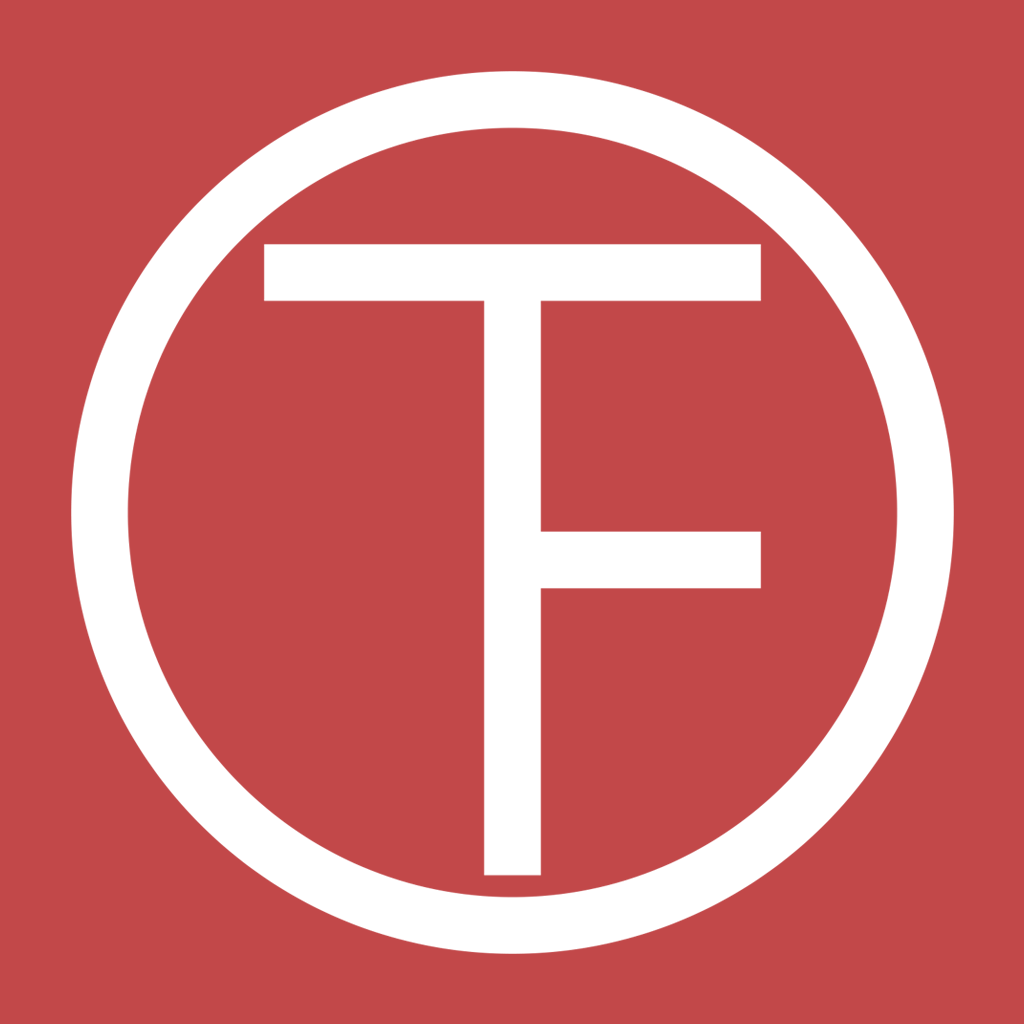
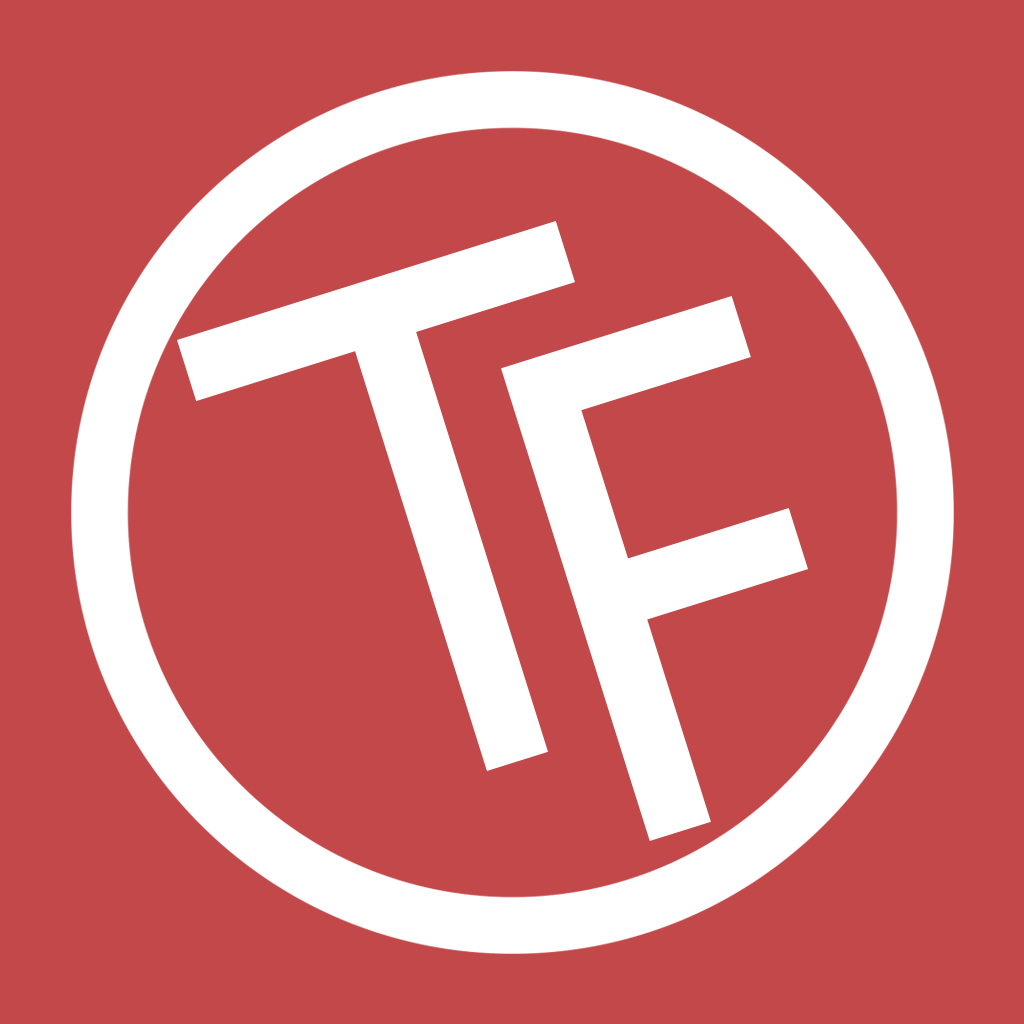
Rebranding Tickfly to TuckFlow

Changed region(s): [[0.1562, 0.2188, 0.8125, 0.875]]

diff --git a/src/pages/shop/shop.html b/src/pages/shop/shop.html
@@ -8,7 +8,7 @@
 <ion-header>
   <ion-navbar>
     <header-main [messages]="true" [search]="true" [createPost]="true" [menu]="true">
-      <ion-title class="tick-title">Магазин тиков</ion-title>
+      <ion-title class="tick-title">Магазин туков</ion-title>
     </header-main>
   </ion-navbar>
 </ion-header>
@@ -17,7 +17,7 @@
 <ion-content padding>
   <div class="tick-wrapper">
     <div>
-      <p>Количество тиков на Вашем счету: {{tickCount}}</p>
+      <p>Количество туков на Вашем счету: {{tickCount}}</p>
       <p></p>
       <ion-segment [(ngModel)]="payment">
         <ion-segment-button value="input">
@@ -31,8 +31,8 @@
 
     <div class="tf-post-label" [ngSwitch]="payment">
       <ion-list class="tick-no-border" *ngSwitchCase="'input'">
-        <p>Для добавления тиков необходимо нажать на кнопку (Пополнить счет),
-          далее выбрать систему оплаты и один из предложеных пакетов тиков.</p>
+        <p>Для добавления туков необходимо нажать на кнопку (Пополнить счет),
+          далее выбрать систему оплаты и один из предложеных пакетов туков.</p>
         <ion-buttons text-right>
           <button ion-button color="danger" (click)="openBrowserForPay()">
             Пополнить счет
@@ -41,7 +41,7 @@
       </ion-list>
 
       <ion-list *ngSwitchCase="'withdraw'">
-        <p>Для вывода тиков необходимо нажать на кнопку (Вывести со счета),
+        <p>Для вывода туков необходимо нажать на кнопку (Вывести со счета),
           далее выбрать систему оплаты и один из предложеных пакетов тиков.</p>
         <ion-buttons text-right>
           <button ion-button color="danger" (click)="openBrowserForWithdraw()">

diff --git a/src/pages/register/register.scss b/src/pages/register/register.scss
@@ -1,49 +1,52 @@
 page-register {
   ion-content {
-   background-color: #d85a5d!important;
-   .enter-block {
-    h4 {
-      margin-bottom: 10px;
-      font-weight: 600;
-      text-transform: uppercase;
-      color: #fff;
-      font-size: 16px;
-    }
-    ion-buttons {
-      margin-top: 30px;
-    }
-  }
-  .item {
-    background-color: transparent;
-  }
-  .tf-post-label {
-    ion-item {
-      width: 80%;
-      margin: 0 auto;
-      padding: 0;
-      border-top: 0!important;
-      .item-inner {
-        padding: 0!important;
+    background-color: #d85a5d !important;
+    .enter-block {
+      h4 {
+        margin-bottom: 10px;
+        font-weight: 600;
+        text-transform: uppercase;
+        color: #fff;
+        font-size: 16px;
+      }
+      ion-buttons {
+        margin-top: 30px;
       }
     }
-    .input-wrapper {
-      ion-label {
-       color: #fff;
-     }
-     input {
-      padding: 5px;
-      width: 100%!important;
-      margin: 8px 0px 4px 0px;
-      background-color: #fff!important;
+    .item {
+      background-color: transparent;
+    }
+    .tf-post-label {
+      ion-item {
+        width: 80%;
+        margin: 0 auto;
+        padding: 0;
+        border-top: 0 !important;
+        .item-inner {
+          padding: 0 !important;
+        }
+      }
+      .input-wrapper {
+        ion-label {
+          color: #fff;
+        }
+        input {
+          padding: 5px;
+          width: 100% !important;
+          margin: 8px 0px 4px 0px;
+          background-color: #fff !important;
+        }
+      }
     }
   }
-}
-}
-@media only screen and ( min-width: 650px ) {
-  .tick-wrapper {
-    display: flex;
-    flex-direction: column;
-    justify-content: center;
+  .toolbar-title-md, .toolbar-title-ios {
+    color: #fff;
   }
-}
+  @media only screen and (min-width: 650px) {
+    .tick-wrapper {
+      display: flex;
+      flex-direction: column;
+      justify-content: center;
+    }
+  }
 }

diff --git a/src/pages/register/register.html b/src/pages/register/register.html
@@ -2,7 +2,7 @@
 
   <ion-navbar>
     <ion-title>
-      <img src="assets/images/logo.png" alt="TickFly">
+      Регистрация
     </ion-title>
   </ion-navbar>
 
@@ -30,13 +30,10 @@
             <ion-label stacked>Пароль</ion-label>
             <ion-input type="password" name="password" [ngModel]="password"></ion-input>
           </ion-item>
-          <!--<ion-item margin-bottom>-->
-            <!--<ion-input type="password" placeholder="Повторите пароль" [ngModel]="repeatPassword"></ion-input>-->
-            <!--</ion-item>-->
 
           </ion-list>
           <ion-buttons text-center>
-            <button ion-button text-capitalize small color="main-entry-button">Зарегистрироваться</button>
+            <button ion-button small color="main-entry-button">Зарегистрироваться</button>
           </ion-buttons>
         </form>
       </div>

diff --git a/src/components/post-preview/post-preview.ts b/src/components/post-preview/post-preview.ts
@@ -141,8 +141,8 @@ export class PostPreviewComponent {
         response => {
           let balance = response.json().balance;
           let prompt = this.alertCtrl.create({
-            title: 'Тик',
-            message: 'Количество тиков на Вашем счету ' + balance + '<p>Введите количество тиков</p>',
+            title: 'Тук',
+            message: 'Количество туков на Вашем счету ' + balance + '<p>Введите количество туков</p>',
             cssClass: 'alert-spend-tick',
             inputs: [
               {

diff --git a/src/pages/post/post.ts b/src/pages/post/post.ts
@@ -123,7 +123,7 @@ export class PostPage {
         response => {
           let balance = response.json().balance;
           let prompt = this.alertCtrl.create({
-            title: 'Тик',
+            title: 'Тук',
             message: 'Количество тиков на Вашем счету ' + balance + '<p>Введите количество тиков</p>',
             inputs: [
               {

diff --git a/src/pages/login/login.scss b/src/pages/login/login.scss
@@ -20,7 +20,7 @@ page-login, page-reset-password {
     }
   }
   ion-title {
-    width: 130px;
+    //width: 130px;
   }
   .tf-post-label {
     ion-item {
@@ -66,7 +66,7 @@ page-login, page-reset-password {
         padding-top: 0 !important;
         ion-title {
           position: relative;
-          width: 130px;
+          //width: 130px;
           padding: 0;
         }
       }

diff --git a/src/pages/login/login.html b/src/pages/login/login.html
@@ -5,7 +5,7 @@
       <img src="assets/images/logo.png" alt="TickFly">
     </ion-title>
     <ion-buttons (click)="onRegisterPage()" end>
-      <button ion-button icon-end text-capitalize>
+      <button ion-button icon-end text-uppercase>
         Зарегистрироваться
         <ion-icon name="arrow-round-forward"></ion-icon>
       </button>
